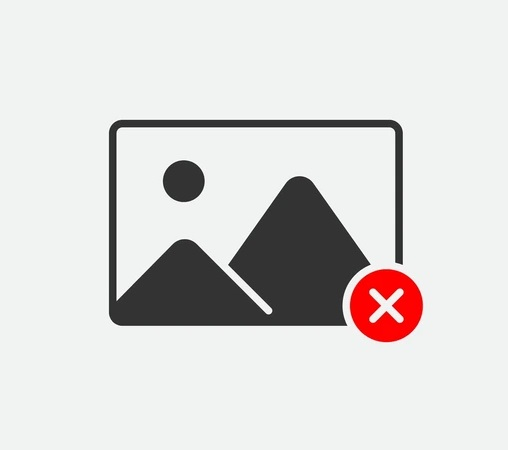
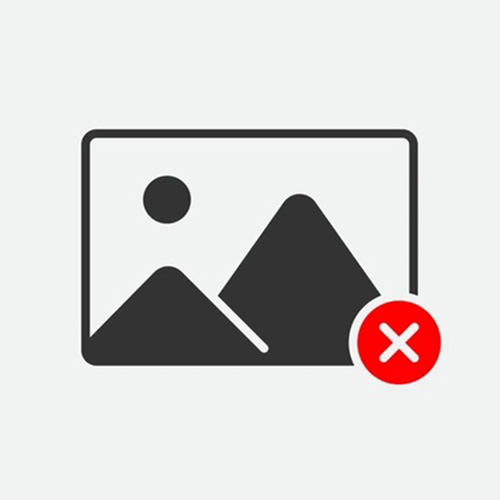
fixed card image scaling

diff --git a/resources/css/style.css b/resources/css/style.css
@@ -736,6 +736,7 @@ a:hover {
 /* ! IMAGES */
 
 .article-img {
+    aspect-ratio: 1/1;
     transition: 0.2s cubic-bezier(0.285, 0.245, 0.500, 1.000);
 }
 

diff --git a/resources/views/components/card.blade.php b/resources/views/components/card.blade.php
@@ -2,7 +2,7 @@
 
     <!-- ? IMAGE -->
     <a href="{{ route('article.show', $article) }}" class="card-link z-1">
-        <img src="{{ $article->images->IsNotEmpty() ? $article->images->first()->getUrl(300, 300) : 'https://picsum.photos/600/500' }}" alt="immagine dell'articolo {{ $article->title }}"
+        <img src="{{ $article->images->IsNotEmpty() ? $article->images->first()->getUrl(300, 300) : '/media/default.jpg' }}" alt="immagine dell'articolo {{ $article->title }}"
             class="article-img rounded-0 z-1 p-0 m-0 w-100">
     </a>
 
